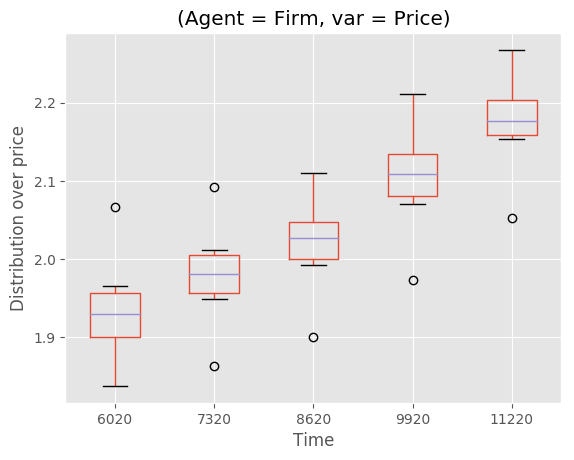
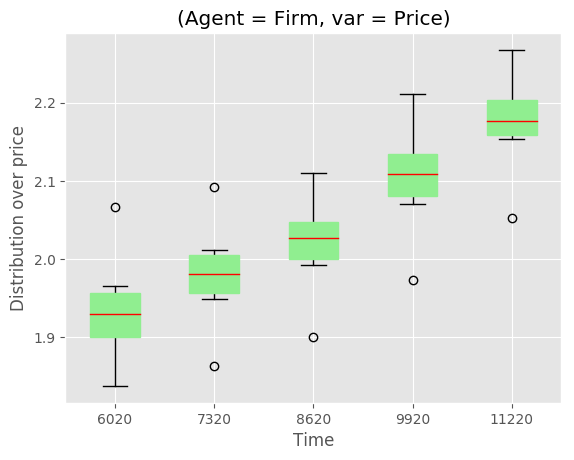
Added greycolor support for boxplots

diff --git a/src/visualisation_scripts/plots.py b/src/visualisation_scripts/plots.py
@@ -786,6 +786,7 @@ class Boxplot(A):
         box_df['min'] = s.minimum()
         return box_df
 
+    #def plot_boxplot(self, ax, data, l_label):
     def plot_boxplot(self, ax, data, l_label):
 
         if self.__P.legend_label(self.idx) is None:
@@ -803,10 +804,21 @@ class Boxplot(A):
             pos.append(count)
             count = count + 1
         #ax = t_df.boxplot(column = [100,250,500,750,900], positions =[1,2,3,4,5])
-        ax = t_df.boxplot(column = intervals, positions =pos)
+        #ax = t_df.boxplot(column = intervals, positions =pos)
+
+        # edit colormap here
+        if self.__P.greyscale(self.idx):
+            color = dict(boxes='Gray', whiskers='Black', medians='Black', caps='Black')
+        else:
+            color = dict(boxes='LightGreen', whiskers='Black', medians='Red', caps='Black')
+
+        # plot the boxplots with pandas
+        df = pd.DataFrame(t_df, columns=intervals)
+        ax = df.plot.box(by=pos, color=color, patch_artist=True)
         ax.set_title(le_label)
         ax.set_xlabel(self.__P.x_label(self.idx))
         ax.set_ylabel(self.__P.y_label(self.idx))
+
         return ax
 
     def one_output(self):
@@ -823,6 +835,7 @@ class Boxplot(A):
             y = []
             for i in range(0, len(D), self.__N):
                 y.append(pd.DataFrame(D[i:i+self.__N]))
+
             for r in range(0, len(D)//self.__N):
                 self.plot_boxplot(ax, y[r], self.__data.columns[col])
 
@@ -846,7 +859,6 @@ class Boxplot(A):
             for s in range(0, len(D)//self.__N):
                 fig, ax = plt.subplots()
                 self.plot_boxplot(ax, y[s], self.__data.columns[col])
-
                 plot_name = self.__P.plot_name(self.idx)
                 plt.savefig(self.outpath + '/' + plot_name[:-4] + "_" + str(self.__data.columns[col]) + "_" + str(s) + ".png", bbox_inches='tight')
                 plt.close()
